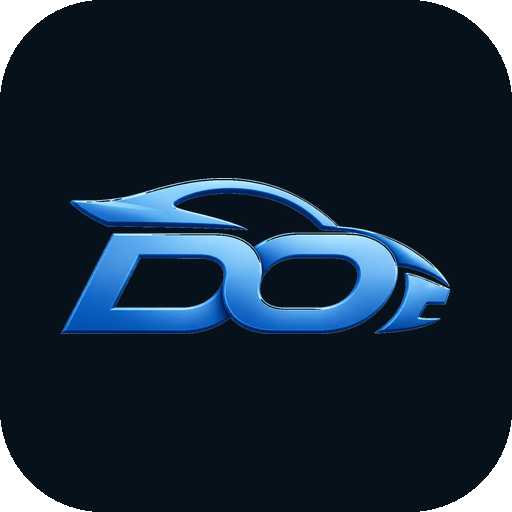
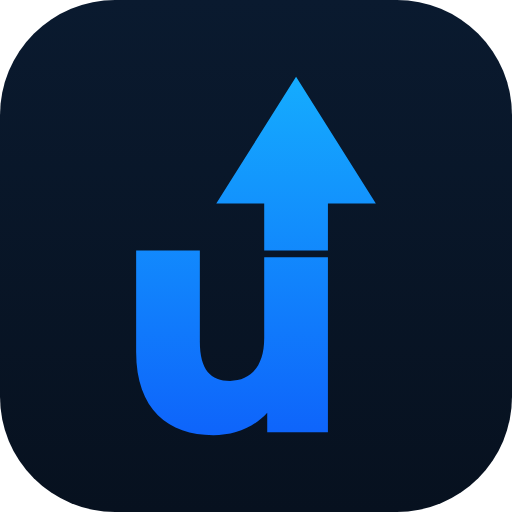
Rebrand to the rentup.ge wordmark across site, web app and Android
The owner's new banner sets the identity: "rentup.ge" in a geometric
sans, "up" in an azure gradient whose u rises into an arrow. Every
surface still shipped the old Drive On "DO" car — the header, the
JSON-LD Organization.logo, the /app/ shell, the sign-in modal, the trip
summary image, the business card, admin, the favicon, the PWA icons and
manifest name ("Drive On"), and the Android launcher label.

scripts/make_brand.py builds the whole set from one geometry
(Montserrat outlines, SIL OFL, plus the arrow measured off the banner):
vector wordmarks for light and dark backgrounds, the arrow-u mark, and
every raster derived from them. Nothing is cropped from the banner —
it is a 1254 px render on a photo and would be soft on retina and
unusable on the white header.

The wordmark spells the name, so the header now carries alt="RentUp" on
the image and shows only the "travel planner" line beside it. Older
rules that boxed the square mark into 96px/34px are overridden in one
named block in theme.py.

Claude-Session: https://claude.ai/code/session_0158B52MMcM6aMdQutDA4uDi

diff --git a/admin/index.html b/admin/index.html
@@ -10,7 +10,7 @@
     :root{--bg:#f4f7fa;--card:#fff;--ink:#12202d;--muted:#607080;--line:#dce5ec;--accent:#087ea4;--soft:#e9f7fb}
     *{box-sizing:border-box} body{margin:0;background:var(--bg);color:var(--ink);font-family:"Noto Sans Georgian",system-ui,sans-serif}
     a{color:inherit}.shell{max-width:1180px;margin:auto;padding:32px 22px 56px}.top{display:flex;align-items:center;justify-content:space-between;gap:20px;margin-bottom:28px}
-    .brand{display:flex;align-items:center;gap:13px}.mark{width:58px;height:48px;border-radius:11px;background:#0c1a29;display:grid;place-items:center;overflow:hidden}.mark img{width:52px;height:38px;object-fit:contain}.brand b{font-size:20px}.brand span{display:block;color:var(--muted);font-size:13px;margin-top:2px}
+    .brand{display:flex;align-items:center;gap:13px}.mark{width:48px;height:48px;border-radius:11px;background:transparent;display:grid;place-items:center;overflow:hidden}.mark img{width:48px;height:48px;object-fit:contain}.brand b{font-size:20px}.brand span{display:block;color:var(--muted);font-size:13px;margin-top:2px}
     .site-link{padding:10px 14px;border:1px solid var(--line);border-radius:10px;text-decoration:none;background:#fff;font-weight:650;font-size:14px}
     h1{font-size:clamp(26px,4vw,38px);margin:0 0 8px}.lead{color:var(--muted);margin:0 0 28px;max-width:720px;line-height:1.65}
     .quick{display:grid;grid-template-columns:repeat(4,minmax(0,1fr));gap:12px;margin-bottom:30px}.quick a{min-height:92px;padding:18px;border-radius:14px;text-decoration:none;background:var(--card);border:1px solid var(--line);display:flex;flex-direction:column;justify-content:center;gap:5px}.quick a:first-child{background:var(--accent);color:#fff;border-color:var(--accent)}.quick strong{font-size:16px}.quick small{color:var(--muted);line-height:1.4}.quick a:first-child small{color:#d9f5fc}
@@ -21,7 +21,7 @@
 </head>
 <body>
   <main class="shell">
-    <header class="top"><div class="brand"><div class="mark"><img src="../assets/do-logo-tight.png" alt="RentUp"></div><div><b>RentUp</b><span>საიტის მართვა</span></div></div><a class="site-link" href="../index.html" target="_blank" rel="noopener">საიტის ნახვა ↗</a></header>
+    <header class="top"><div class="brand"><div class="mark"><img src="../assets/brand/rentup-mark.svg" alt="RentUp"></div><div><b>RentUp</b><span>საიტის მართვა</span></div></div><a class="site-link" href="../index.html" target="_blank" rel="noopener">საიტის ნახვა ↗</a></header>
     <h1>რისი შეცვლა გსურთ?</h1>
     <p class="lead">აირჩიეთ კონკრეტული საქმე. რედაქტორში პირველ რიგში გამოჩნდება მომხმარებლისთვის ხილული ინფორმაცია, ხოლო Google-ისა და ტექნიკური ველები — ბოლოს.</p>
     <section class="quick" aria-label="ხშირი მოქმედებები">

diff --git a/static/planner.js b/static/planner.js
@@ -14,7 +14,7 @@
   };
   function carCopy(key, fallback) { return (CAR_COPY[UI_LANG] || CAR_COPY.en)[key] || fallback; }
   window.FH_BRAND_LOGO = window.FH_BRAND_LOGO || new Image();
-  if (!window.FH_BRAND_LOGO.src) window.FH_BRAND_LOGO.src = "/assets/do-logo-tight.png";
+  if (!window.FH_BRAND_LOGO.src) window.FH_BRAND_LOGO.src = "/assets/brand/rentup-wordmark-white-600.png";
   var map, layers = [], DAY_COLORS = ["#0f4c81", "#c8963e", "#1d7a53", "#8e6bb5", "#b5563f",
                                       "#2b8a9e", "#8f2f52", "#4a76b5", "#3f8f5f", "#a0703c"];
 
@@ -692,12 +692,13 @@
       var height = 500 + rows.reduce(function (n, row) { return n + 80 + row.stops.length * 68; }, 0);
       var c = document.createElement("canvas"), ctx = c.getContext("2d"); c.width = 1240; c.height = Math.max(900, height);
       ctx.fillStyle = "#f7fafc"; ctx.fillRect(0, 0, c.width, c.height);
-      ctx.fillStyle = "#07111d"; ctx.fillRect(0, 0, c.width, 180);
+      ctx.fillStyle = "#0a1a2f"; ctx.fillRect(0, 0, c.width, 180);
       var grad = ctx.createLinearGradient(0, 0, 1240, 0); grad.addColorStop(0, "#25bfd1"); grad.addColorStop(1, "#3b82f6");
       var brandLogo = window.FH_BRAND_LOGO;
-      if (brandLogo && brandLogo.complete && brandLogo.naturalWidth) ctx.drawImage(brandLogo, 60, 38, 130, 92);
-      ctx.fillStyle = "#f4f8fc"; ctx.font = "800 40px sans-serif"; ctx.fillText("RentUp", 215, 90);
-      ctx.fillStyle = "#9fb0c4"; ctx.font = "500 22px sans-serif"; ctx.fillText("TRIP SUMMARY", 215, 126);
+      // the wordmark is 3.83:1 and already spells the name
+      if (brandLogo && brandLogo.complete && brandLogo.naturalWidth) ctx.drawImage(brandLogo, 60, 34, 306, 80);
+      else { ctx.fillStyle = "#f4f8fc"; ctx.font = "800 40px sans-serif"; ctx.fillText("rentup.ge", 60, 96); }
+      ctx.fillStyle = "#9fb0c4"; ctx.font = "500 22px sans-serif"; ctx.fillText("TRIP SUMMARY", 62, 150);
       ctx.fillStyle = "#0b1724"; ctx.font = "800 38px sans-serif";
       var y = wrap(ctx, start.n + " · " + res.days.length + " " + T.day, 70, 250, 1100, 48) + 16;
       ctx.font = "600 22px sans-serif"; ctx.fillStyle = "#526274";

diff --git a/static/auth.js b/static/auth.js
@@ -268,7 +268,7 @@
     d.innerHTML =
       '<div class="authcard" role="dialog" aria-modal="true" aria-labelledby="authtitle">' +
       '<button class="authx" type="button" aria-label="×">✕</button>' +
-      '<div class="authbrand" aria-hidden="true"><img src="/assets/do-logo-tight.png" alt=""></div>' +
+      '<div class="authbrand" aria-hidden="true"><img src="/assets/brand/rentup-wordmark.svg" alt=""></div>' +
       '<h3 id="authtitle">' + esc(T.sign_in || "Sign in") + "</h3>" +
       '<p class="pshort">' + esc(T.why_account || "") + "</p>" +
       '<button class="btn goog" type="button" id="authgoogle">' +

diff --git a/scripts/make_brand.py b/scripts/make_brand.py
@@ -1,0 +1,210 @@
+"""Generate the rentup.ge logo set from one geometry.
+
+The identity comes from the owner's brand banner (2026-10-15): the word
+"rentup.ge" in a geometric sans, "rent" in navy/white, "up" in an azure
+gradient whose u's right stem rises into an arrow, ".ge" in grey.
+
+Everything is vector, built from Montserrat outlines (SIL OFL 1.1, so
+converting it to paths inside a logo is permitted) plus the arrow drawn
+here. Nothing is cropped from the banner itself: that is a 1254 px render
+on a photographic background and would be soft on every retina screen and
+unusable on the white header.
+
+Outputs (all committed — the site build does not need Montserrat):
+  static/brand/rentup-wordmark.svg         navy "rent", for light backgrounds
+  static/brand/rentup-wordmark-white.svg   white "rent", for dark backgrounds
+  static/brand/rentup-mark.svg             the arrow-u alone on navy (icons)
+  static/favicon.svg                       = mark, tuned for 16-32 px
+  static/app-icon.svg / app-icon-*.png     PWA + iOS icons
+  static/rentup-logo-square.png            Organization.logo in JSON-LD
+  static/rentup-header-logo.png            raster fallback of the wordmark
+  static/brand/rentup-wordmark-600.png     for e-mail, PDFs, partners
+  mobile/.../mipmap-*/ic_launcher.png      Android launcher icons
+
+Rerun:  sudo apt-get install fonts-montserrat && python scripts/make_brand.py
+"""
+from __future__ import annotations
+
+import asyncio
+import os
+from pathlib import Path
+
+from fontTools.pens.boundsPen import BoundsPen
+from fontTools.pens.svgPathPen import SVGPathPen
+from fontTools.pens.transformPen import TransformPen
+from fontTools.ttLib import TTFont
+
+ROOT = Path(__file__).resolve().parents[1]
+FONT_DIR = Path("/usr/share/fonts/opentype/montserrat")
+HEAVY = FONT_DIR / "Montserrat-ExtraBold.otf"
+LIGHT = FONT_DIR / "Montserrat-SemiBold.otf"
+
+# Colours sampled from the banner.
+NAVY = "#0a1a2f"          # background of the banner, and "rent" on white
+NAVY_DEEP = "#07111f"
+UP_TOP = "#15acfe"        # gradient on "up", top of the arrow
+UP_BOTTOM = "#0e64fb"     # bottom of the p's descender
+GE_ON_DARK = "#c3cedb"
+GE_ON_LIGHT = "#6b7c8e"   # 4.6:1 on white — readable, still secondary
+
+# Arrow geometry, in font units (x-height 542). Measured off the banner:
+# the stem keeps rising 0.26 x-height above the u, the head is 2.5 stems
+# wide and its tip sits about one x-height above the top of the u.
+STEM_L, STEM_R = 441, 631          # Montserrat ExtraBold "u" right stem
+HEAD_BASE = 682
+HEAD_TIP = 1060
+HEAD_HALF = 238
+
+
+class Glyphs:
+    def __init__(self, path: Path):
+        self.font = TTFont(str(path))
+        self.gs = self.font.getGlyphSet()
+        self.cmap = self.font.getBestCmap()
+
+    def name(self, ch: str) -> str:
+        return self.cmap[ord(ch)]
+
+    def advance(self, ch: str) -> int:
+        return self.gs[self.name(ch)].width
+
+    def path(self, ch: str, dx: float) -> str:
+        pen = SVGPathPen(self.gs)
+        # font units are y-up; SVG is y-down. Flip about the baseline.
+        self.gs[self.name(ch)].draw(TransformPen(pen, (1, 0, 0, -1, dx, 0)))
+        return pen.getCommands()
+
+    def bounds(self, ch: str):
+        bp = BoundsPen(self.gs)
+        self.gs[self.name(ch)].draw(bp)
+        return bp.bounds
+
+
+def arrow_path(dx: float) -> str:
+    """Stem extension + arrowhead sitting on the u's right stem (y-down)."""
+    cx = dx + (STEM_L + STEM_R) / 2
+    l, r = dx + STEM_L, dx + STEM_R
+    # overlap the u by 20 units so no hairline seam shows when rasterised
+    return (f"M{l} {-522}L{l} {-HEAD_BASE}L{cx - HEAD_HALF} {-HEAD_BASE}"
+            f"L{cx} {-HEAD_TIP}L{cx + HEAD_HALF} {-HEAD_BASE}L{r} {-HEAD_BASE}L{r} {-522}Z")
+
+
+def wordmark(on_dark: bool) -> tuple[str, float, float]:
+    heavy, light = Glyphs(HEAVY), Glyphs(LIGHT)
+    track = -6                         # Montserrat is set a touch loose at display sizes
+    # per-pair tightening seen in the banner (font units)
+    kern = {("t", "u"): -14, ("u", "p"): -48, ("p", "."): -10, (".", "g"): -6}
+
+    x = 0.0
+    rent, up, ge = [], [], []
+    text = "rentup.ge"
+    for i, ch in enumerate(text):
+        g = light if i >= 6 else heavy
+        bucket = rent if i < 4 else (up if i < 6 else ge)
+        bucket.append(g.path(ch, x))
+        if ch == "u":
+            up.append(arrow_path(x))
+        if i + 1 < len(text):
+            x += g.advance(ch) + track + kern.get((ch, text[i + 1]), 0)
+    x_end = x + light.bounds("e")[2]
+
+    pad = 20
+    top, bottom = -HEAD_TIP - pad, 203 + pad     # arrow tip / g descender
+    left = heavy.bounds("r")[0] - pad
+    w, h = x_end + pad - left, bottom - top
+    rent_fill = "#ffffff" if on_dark else NAVY
+    ge_fill = GE_ON_DARK if on_dark else GE_ON_LIGHT
+    gid = "rug" + ("d" if on_dark else "l")
+    svg = (
+        f'<svg xmlns="http://www.w3.org/2000/svg" viewBox="{left:.0f} {top:.0f} {w:.0f} {h:.0f}" '
+        f'width="{w / 10:.1f}" height="{h / 10:.1f}" role="img" aria-label="rentup.ge">'
+        f'<title>rentup.ge</title>'
+        f'<defs><linearGradient id="{gid}" x1="0" y1="{-HEAD_TIP}" x2="0" y2="203" gradientUnits="userSpaceOnUse">'
+        f'<stop offset="0" stop-color="{UP_TOP}"/><stop offset="1" stop-color="{UP_BOTTOM}"/></linearGradient></defs>'
+        f'<path fill="{rent_fill}" d="{"".join(rent)}"/>'
+        f'<path fill="url(#{gid})" d="{"".join(up)}"/>'
+        f'<path fill="{ge_fill}" d="{"".join(ge)}"/>'
+        f'</svg>\n'
+    )
+    return svg, w, h
+
+
+def mark(size: int = 512, radius: float = 0.225, maskable: bool = False) -> str:
+    """The arrow-u alone, white-on-navy would lose the brand blue, so the
+    glyph keeps its gradient and the tile carries the navy."""
+    heavy = Glyphs(HEAVY)
+    u = heavy.path("u", 0) + arrow_path(0)
+    # glyph box: x 59..773(head), y -1060..9
+    gx0, gx1 = 59, (STEM_L + STEM_R) / 2 + HEAD_HALF
+    gy0, gy1 = -HEAD_TIP, 9
+    gw, gh = gx1 - gx0, gy1 - gy0
+    safe = 0.56 if maskable else 0.70        # maskable icons get cropped to a circle
+    s = size * safe / max(gw, gh)
+    tx = (size - gw * s) / 2 - gx0 * s
+    ty = (size - gh * s) / 2 - gy0 * s
+    rx = 0 if maskable else size * radius
+    return (
+        f'<svg xmlns="http://www.w3.org/2000/svg" viewBox="0 0 {size} {size}" width="{size}" height="{size}">'
+        f'<defs><linearGradient id="bg" x1="0" y1="0" x2="0" y2="{size}" gradientUnits="userSpaceOnUse">'
+        f'<stop offset="0" stop-color="{NAVY}"/><stop offset="1" stop-color="{NAVY_DEEP}"/></linearGradient>'
+        f'<linearGradient id="up" x1="0" y1="{gy0}" x2="0" y2="{gy1}" gradientUnits="userSpaceOnUse">'
+        f'<stop offset="0" stop-color="{UP_TOP}"/><stop offset="1" stop-color="{UP_BOTTOM}"/></linearGradient></defs>'
+        f'<rect width="{size}" height="{size}" rx="{rx:.1f}" fill="url(#bg)"/>'
+        f'<g transform="translate({tx:.2f} {ty:.2f}) scale({s:.5f})"><path fill="url(#up)" d="{u}"/></g>'
+        f'</svg>\n'
+    )
+
+
+async def rasterise(jobs):
+    """jobs: (svg_text, out_path, width, height, background_or_None)"""
+    from playwright.async_api import async_playwright
+    async with async_playwright() as p:
+        b = await p.chromium.launch(executable_path=os.environ.get("CHROMIUM", "/opt/pw-browsers/chromium"))
+        for svg, out, w, h, bg in jobs:
+            pg = await b.new_page(viewport={"width": w, "height": h}, device_scale_factor=1)
+            body_bg = bg or "transparent"
+            sized = svg.replace("<svg ", '<svg style="width:%dpx;height:%dpx;display:block" ' % (w, h), 1)
+            await pg.set_content(
+                f'<html><body style="margin:0;background:{body_bg}">{sized}</body></html>')
+            Path(out).parent.mkdir(parents=True, exist_ok=True)
+            await pg.screenshot(path=str(out), omit_background=bg is None)
+            await pg.close()
+        await b.close()
+
+
+def main():
+    st = ROOT / "static"
+    brand = st / "brand"
+    brand.mkdir(exist_ok=True)
+
+    light_svg, w, h = wordmark(on_dark=False)
+    dark_svg, _, _ = wordmark(on_dark=True)
+    (brand / "rentup-wordmark.svg").write_text(light_svg, encoding="utf-8")
+    (brand / "rentup-wordmark-white.svg").write_text(dark_svg, encoding="utf-8")
+
+    icon = mark(512)
+    (brand / "rentup-mark.svg").write_text(icon, encoding="utf-8")
+    (st / "app-icon.svg").write_text(icon, encoding="utf-8")
+    (st / "favicon.svg").write_text(mark(64, radius=0.22), encoding="utf-8")
+
+    ratio = w / h
+    jobs = [
+        (icon, st / "app-icon-512.png", 512, 512, None),
+        (icon, st / "app-icon-192.png", 192, 192, None),
+        (mark(180, radius=0), st / "app-icon-180.png", 180, 180, None),      # iOS rounds it itself
+        (mark(512, maskable=True), st / "app-icon-maskable-512.png", 512, 512, None),
+        (mark(540, radius=0), st / "rentup-logo-square.png", 540, 540, None),  # JSON-LD wants a plain square
+        (light_svg, st / "rentup-header-logo.png", round(72 * ratio), 72, None),
+        (light_svg, brand / "rentup-wordmark-600.png", 600, round(600 / ratio), None),
+        (dark_svg, brand / "rentup-wordmark-white-600.png", 600, round(600 / ratio), None),
+    ]
+    res = ROOT / "mobile/fleet_house_app/android/app/src/main/res"
+    for d, px in (("mdpi", 48), ("hdpi", 72), ("xhdpi", 96), ("xxhdpi", 144), ("xxxhdpi", 192)):
+        if (res / f"mipmap-{d}").exists():
+            jobs.append((mark(px * 4), res / f"mipmap-{d}/ic_launcher.png", px, px, None))
+    asyncio.run(rasterise(jobs))
+    print(f"wordmark {w:.0f}x{h:.0f} units, ratio {ratio:.3f}; {len(jobs)} rasters written")
+
+
+if __name__ == "__main__":
+    main()

diff --git a/build.py b/build.py
@@ -1109,8 +1109,11 @@ def header_html(lang, current):
                   "fa": "سفر را برنامهریزی کنید", "he": "תכננו נסיעה", "ar": "خطّط رحلتك"}[lang]
     logo_img = DESIGN.get("logo_image")
     mark = DESIGN.get("logo_mark") or "".join(w[0] for w in BRAND.split()[:2]).upper()
-    logo = (f'<img src="{E(logo_img)}" alt="" aria-hidden="true">'
-            f'<span class="logo-name">{E(BRAND)} <small>{E(u["ui"]["logo_sub"])}</small></span>' if logo_img
+    # The wordmark spells the brand itself, so it carries the alt text and the
+    # name is not repeated beside it — only the "travel planner" line is.
+    logo = (f'<img class="logo-word" src="{E(logo_img)}" alt="{E(BRAND)}" '
+            f'width="{round(int(DESIGN.get("logo_height") or 40) * 3.83)}" height="{E(DESIGN.get("logo_height") or "40")}">'
+            f'<span class="logo-sub">{E(u["ui"]["logo_sub"])}</span>' if logo_img
             else f'<span class="mark" aria-hidden="true">{E(mark)}</span>'
                  f'<span class="logo-name">{E(BRAND)} <small>{E(u["ui"]["logo_sub"])}</small></span>')
     return f"""<header class="site-head"><div class="head-top">
@@ -1571,9 +1574,9 @@ def render_business_card(lang):
     body = f'''<main id="main" class="digital-card-page"><div class="digital-card-shell">
 <nav class="card-languages" aria-label="{E(UI[lang]['ui']['lang_label'])}">{card_langs}</nav>
 <article class="road-pass-card" aria-labelledby="card-name">
-<div class="road-pass-top"><span>DRIVE ON • GEORGIA</span><strong>ROAD PASS <span aria-hidden="true">✈</span></strong></div>
+<div class="road-pass-top"><span>RENTUP.GE • GEORGIA</span><strong>ROAD PASS <span aria-hidden="true">✈</span></strong></div>
 <div class="road-pass-body"><div class="road-pass-identity">
-<div class="road-pass-brand"><img src="/assets/do-logo-tight.png" alt=""><b>RentUp</b></div>
+<div class="road-pass-brand"><img src="/assets/brand/rentup-wordmark.svg" alt="RentUp" width="230" height="60"></div>
 <h1 id="card-name">{E(name)}</h1><p class="road-pass-role">{E(role)}</p>
 <a class="card-contact-line" href="tel:+995597555565" aria-label="{E(call)}: +995 597 55 55 65"><span aria-hidden="true">☎</span><bdi dir="ltr">+995 597 55 55 65</bdi></a>
 <a class="card-contact-line card-site" href="https://www.rentup.ge/" aria-label="{E(website)}: www.rentup.ge"><span aria-hidden="true">↗</span><bdi dir="ltr">www.rentup.ge</bdi></a>
@@ -5673,7 +5676,7 @@ def render_app_page(lang):
 <head>
 <meta charset="utf-8">
 <meta name="viewport" content="width=device-width, initial-scale=1, viewport-fit=cover">
-<meta name="theme-color" content="#0b2f4d">
+<meta name="theme-color" content="#0a1a2f">
 <meta name="robots" content="noindex">
 <title>RentUp — {E(t["appSub"])}</title>
 <link rel="manifest" href="/assets/manifest.webmanifest">
@@ -5688,7 +5691,7 @@ def render_app_page(lang):
 <div id="doa" style="height:100dvh;max-width:520px;margin:0 auto;display:flex;flex-direction:column;background:#f4f7f9;overflow:hidden;position:relative">
 
   <div style="flex:0 0 auto;display:flex;align-items:center;gap:8px;height:54px;padding:0 12px;padding-top:env(safe-area-inset-top);background:#fff;border-bottom:1px solid #dde5ec">
-    <img src="/assets/do-logo-transparent.png" alt="RentUp" width="92" height="28" style="height:28px;width:auto;display:block">
+    <img src="/assets/brand/rentup-wordmark.svg" alt="RentUp" width="115" height="30" style="height:30px;width:auto;display:block;flex:none">
     <span style="font-size:13px;font-weight:600;color:#5a6b7b;white-space:nowrap;overflow:hidden;text-overflow:ellipsis">{E(t["appSub"])}</span>
     <div style="flex:1"></div>
     <select id="doalang" aria-label="Language" style="height:44px;padding:0 6px;border:1px solid #dde5ec;border-radius:10px;background:#fff;font-size:13px">{lang_opts}</select>

diff --git a/theme.py b/theme.py
@@ -2382,4 +2382,21 @@ main .lead,p.lead{{font-size:15px;color:var(--ink-2)}}
 .keyfacts p:last-child{{margin:0}}
 .keyfacts .meta{{font-size:13px;color:var(--ink-2)}}
 [dir=rtl] .keyfacts{{border-left:0;border-right:4px solid var(--brand)}}
+
+/* ═══ Brand · rentup.ge wordmark (2026-10-15) ═══
+   The wordmark is 3.83:1 and spells the name, so earlier rules that boxed
+   the old square "DO" mark into 96px / 34px must not apply to it. */
+.logo img.logo-word,.head-top .logo img.logo-word{{height:{d.get('logo_height','40')}px;width:auto;
+  max-width:none;flex:none;object-fit:contain;transform:none;filter:none}}
+.head-top .logo{{gap:12px}}
+.logo-sub{{font-family:var(--font);font-size:11px;font-weight:600;line-height:1.25;color:var(--ink-2);
+  letter-spacing:.08em;text-transform:uppercase;padding-inline-start:12px;
+  border-inline-start:1px solid var(--line);max-width:9.5em}}
+@media (max-width:720px){{
+  .logo img.logo-word,.head-top .logo img.logo-word{{height:32px}}
+  .logo-sub{{display:none}}
+}}
+.road-pass-brand img{{width:30cqw;height:7.8cqw;object-fit:contain;object-position:left center;transform:none}}
+html[dir="rtl"] .road-pass-brand img{{object-position:right center}}
+.authbrand{{width:150px;height:46px}}.authbrand img{{width:150px;height:40px}}
 """
